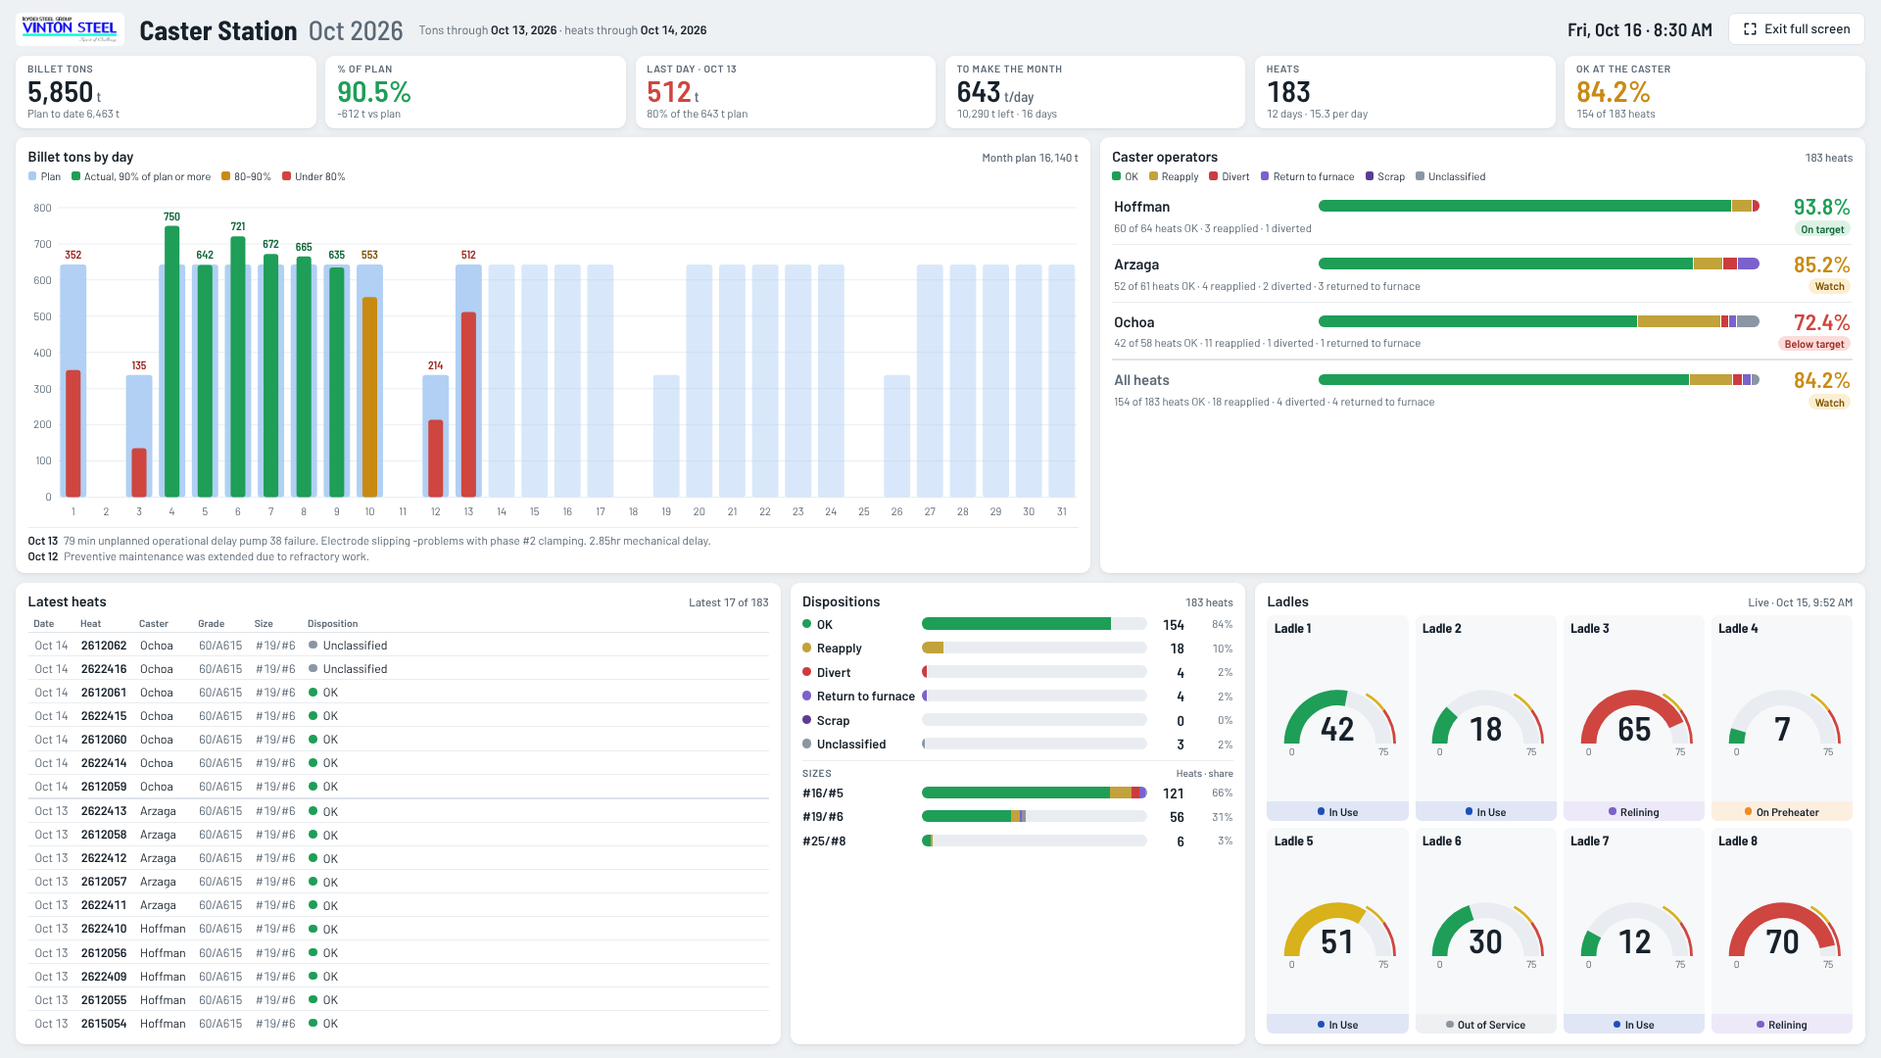
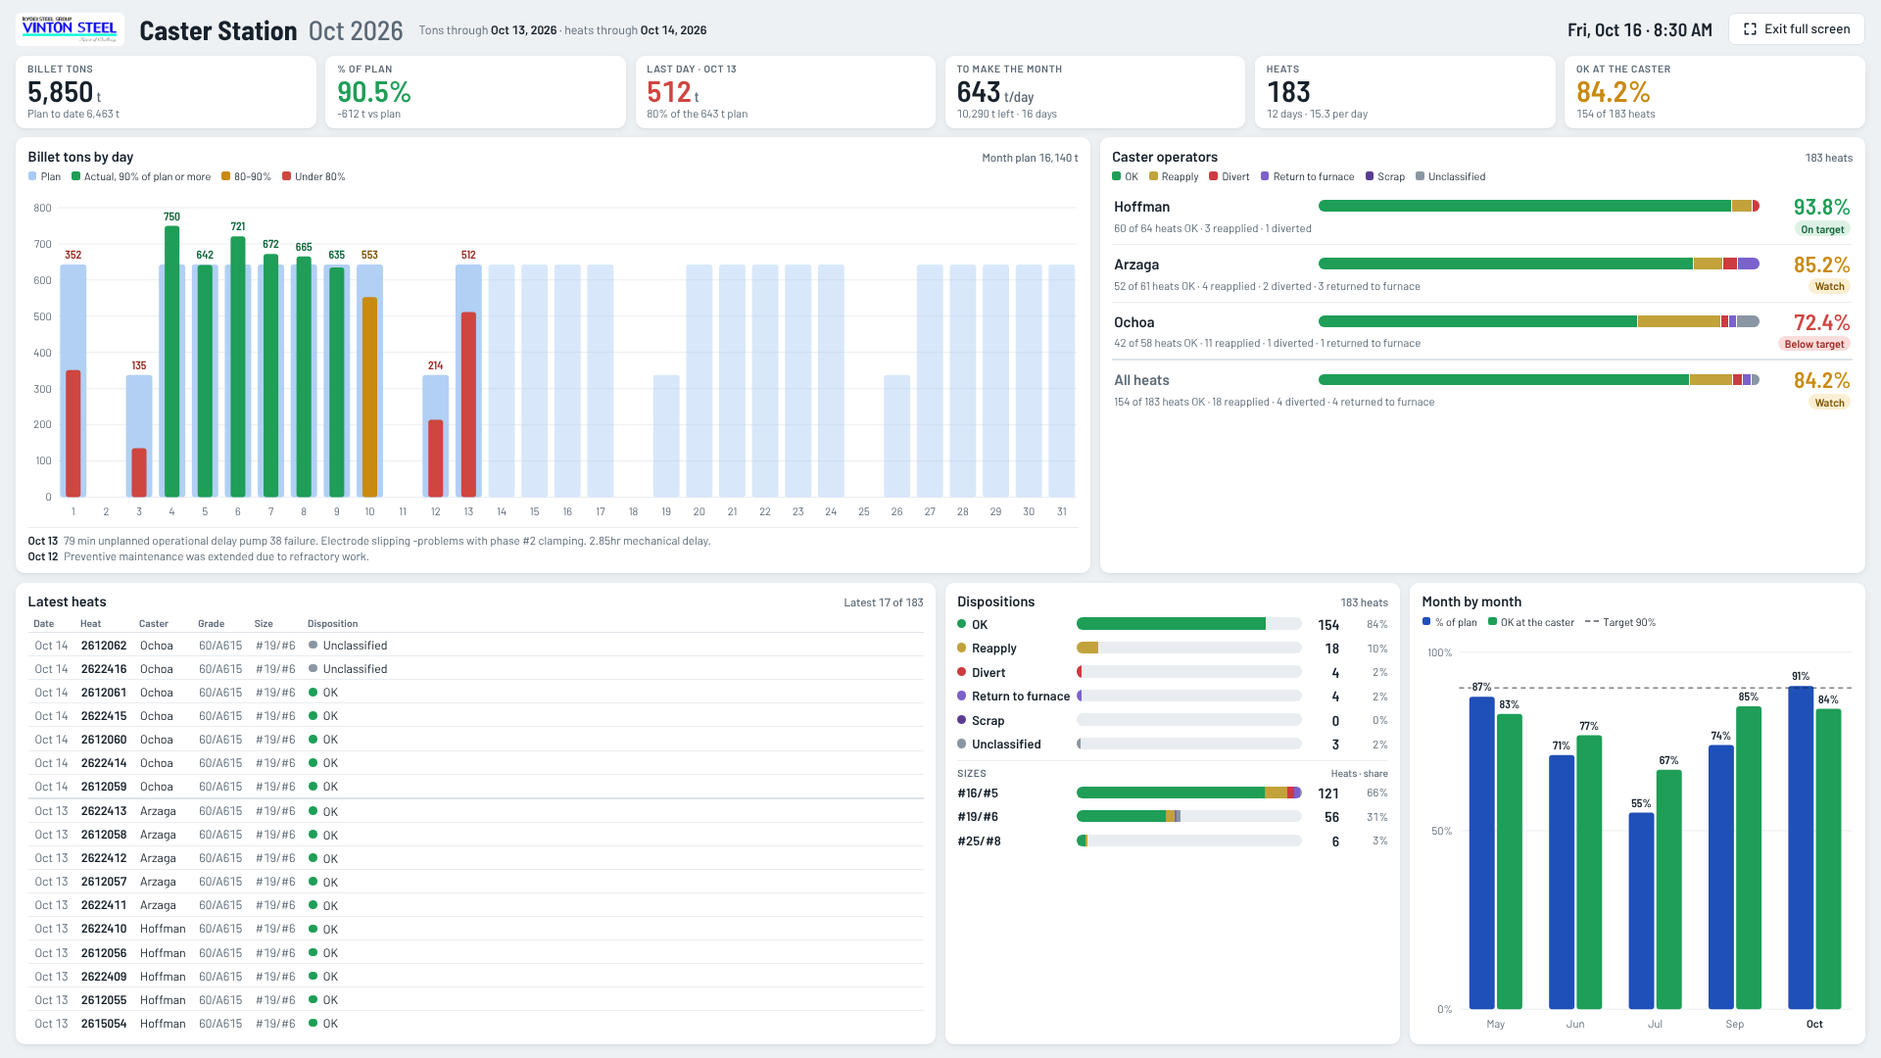
Station TVs: replace the ladle gauges with month-by-month charts
The Furnace Station shows melter OK % by month and the Caster Station % of plan and OK at the caster
by month, against the 90% target. The latest heats table gets the extra width.

Claude-Session: https://claude.ai/code/session_01CDN4J3RVh4maKsFv7NYeHq

diff --git a/index.html b/index.html
@@ -389,7 +389,7 @@ a.btn { text-decoration: none; }
 .st-card h2 { display: flex; align-items: baseline; justify-content: space-between; gap: 1em; font-size: 1.12em; font-weight: 600; margin: 0 0 .4em; min-width: 0; }
 .st-card h2 > span { white-space: nowrap; }
 .st-card h2 small { font-size: .8em; font-weight: 500; color: var(--muted); white-space: nowrap; overflow: hidden; text-overflow: ellipsis; font-variant-numeric: tabular-nums; }
-.st .c7 { grid-column: span 7; } .st .c5 { grid-column: span 5; } .st .c4 { grid-column: span 4; } .st .c3 { grid-column: span 3; }
+.st .c7 { grid-column: span 7; } .st .c6 { grid-column: span 6; } .st .c5 { grid-column: span 5; } .st .c3 { grid-column: span 3; }
 .st-legend { display: flex; flex-wrap: wrap; gap: .15em 1em; font-size: .84em; color: var(--muted); margin: 0 0 .45em; }
 .st-legend:empty { display: none; }
 .st-legend .lg { display: inline-flex; align-items: center; gap: .4em; color: var(--ink); white-space: nowrap; }
@@ -398,7 +398,7 @@ a.btn { text-decoration: none; }
 .st-chart > svg { position: absolute; inset: 0; width: 100%; height: 100%; display: block; overflow: visible; }
 .st-chart text { font-family: var(--font-ui); }
 .st-chart .tl { font-size: .85em; fill: var(--muted); }
-.st-chart .vl { font-family: var(--font-num); font-size: .9em; font-weight: 600; fill: var(--ink); }
+.st-chart .vl { font-family: var(--font-num); font-size: .9em; font-weight: 600; fill: var(--ink); paint-order: stroke; stroke: var(--panel); stroke-width: 3px; stroke-linejoin: round; }
 .st-chart .vl.good { fill: var(--good-ink); } .st-chart .vl.warn { fill: var(--warn-ink); } .st-chart .vl.bad { fill: var(--bad-ink); }
 .st-chart .grid line { stroke: var(--line-2); }
 .st-chart .hover-band { fill: var(--ink); opacity: 0; }
@@ -447,24 +447,15 @@ a.btn { text-decoration: none; }
 .st-notes:empty { display: none; }
 .st-notes li { white-space: nowrap; overflow: hidden; text-overflow: ellipsis; color: var(--muted); }
 .st-notes b { color: var(--ink); font-weight: 600; margin-right: .5em; }
-.st-ladles { flex: 1 1 0; min-height: 0; display: grid; grid-template-columns: repeat(4, minmax(0, 1fr)); grid-template-rows: repeat(2, minmax(0, 1fr)); gap: .5em; }
-.st-ladle { display: flex; flex-direction: column; min-height: 0; min-width: 0; border-radius: .5em; background: var(--panel-2); overflow: hidden; }
-.st-ladle .nm { font-family: var(--font-num); font-weight: 700; font-size: 1.05em; padding: .3em .55em 0; }
-.st-ladle .gw { position: relative; flex: 1 1 0; min-height: 0; margin: 0 .3em; }
-.st-ladle svg.gauge { position: absolute; inset: 0; width: 100%; height: 100%; }
-.st-ladle svg.gauge text { font-family: var(--font-ui); }
-.st-ladle svg.gauge .num { font-family: var(--font-num); font-size: 50px; font-weight: 600; fill: var(--ink); font-variant-numeric: tabular-nums; }
-.st-ladle svg.gauge .num.over { fill: var(--bad-ink); }
-.st-ladle svg.gauge .end { font-size: 15px; fill: var(--muted); }
-.st-ladle .stt { display: flex; align-items: center; justify-content: center; gap: .4em; font-size: .86em; font-weight: 600; padding: .32em .3em; white-space: nowrap; overflow: hidden; }
-.st-ladle .stt i { width: .65em; height: .65em; border-radius: 50%; flex: none; }
+.st-tbl th.num, .st-tbl td.num { text-align: right; }
+.st-legend .sw.tgt { height: 0; width: 1.3em; border-radius: 0; border-top: 2px dashed var(--ink); opacity: .55; }
+.st-chart .target { stroke: var(--ink); stroke-width: 1.5; stroke-dasharray: 5 4; opacity: .55; }
+.st-chart .tl.cur { fill: var(--ink); font-weight: 600; }
 @media (max-width: 1100px) {
   html:not(.vk-tv) .st { grid-template-columns: minmax(0, 1fr); grid-template-rows: none; }
   html:not(.vk-tv) .st > .st-card { grid-column: 1 / -1; }
   html:not(.vk-tv) .st > .st-card.fx { height: 340px; }
   html:not(.vk-tv) .st-card:not(.fx) > * { flex: none !important; }
-  html:not(.vk-tv) .st-ladles { grid-template-rows: none; }
-  html:not(.vk-tv) .st-ladle .gw { flex: none; aspect-ratio: 200 / 118; }
   html:not(.vk-tv) .st-kpis { grid-template-columns: repeat(3, minmax(0, 1fr)); }
 }
 @media (max-width: 620px) {
@@ -939,7 +930,7 @@ html.vk-tv.vk-idle .st-fs { opacity: 0; }
         <div class="st-legend" data-st="ops-legend"></div>
         <ol class="st-rank" data-st="ops"></ol>
       </div>
-      <div class="st-card c5 fx">
+      <div class="st-card c6 fx">
         <h2><span>Latest heats</span><small data-st="heats-note"></small></h2>
         <div class="st-tbl-wrap">
           <table class="st-tbl" data-st="heats">
@@ -955,9 +946,10 @@ html.vk-tv.vk-idle .st-fs { opacity: 0; }
         <h3 class="st-sub"><span>Grades</span><small>Heats · OK</small></h3>
         <div class="st-bars wide fill" data-st="els2"></div>
       </div>
-      <div class="st-card c4">
-        <h2><span>Ladles</span><small data-st="ladles-note"></small></h2>
-        <div class="st-ladles" data-st="ladles"></div>
+      <div class="st-card c3 fx">
+        <h2><span>Melter OK % by month</span></h2>
+        <div class="st-legend" data-st="months-legend"></div>
+        <div class="st-chart" data-st="months"></div>
       </div>
     </section>
 
@@ -984,7 +976,7 @@ html.vk-tv.vk-idle .st-fs { opacity: 0; }
         <div class="st-legend" data-st="ops-legend"></div>
         <ol class="st-rank" data-st="ops"></ol>
       </div>
-      <div class="st-card c5 fx">
+      <div class="st-card c6 fx">
         <h2><span>Latest heats</span><small data-st="heats-note"></small></h2>
         <div class="st-tbl-wrap">
           <table class="st-tbl" data-st="heats">
@@ -999,9 +991,10 @@ html.vk-tv.vk-idle .st-fs { opacity: 0; }
         <h3 class="st-sub"><span>Sizes</span><small>Heats · share</small></h3>
         <div class="st-bars wide fill" data-st="els2"></div>
       </div>
-      <div class="st-card c4">
-        <h2><span>Ladles</span><small data-st="ladles-note"></small></h2>
-        <div class="st-ladles" data-st="ladles"></div>
+      <div class="st-card c3 fx">
+        <h2><span>Month by month</span></h2>
+        <div class="st-legend" data-st="months-legend"></div>
+        <div class="st-chart" data-st="months"></div>
       </div>
     </section>
 
@@ -2498,6 +2491,7 @@ html.vk-tv.vk-idle .st-fs { opacity: 0; }
   function stLegend(box, items) {
     box.replaceChildren(...items.map(([label, color, soft]) => { const s = mk('span', 'lg'); const w = mk('i', 'sw'); w.style.background = color; if (soft) w.style.opacity = '.5'; s.append(w, label); return s; }));
   }
+  function stTarget(box) { const s = mk('span', 'lg'); const w = mk('i', 'sw tgt'); s.append(w, 'Target 90%'); box.appendChild(s); }
   function stRank(ol, rows, total) {
     ol.replaceChildren();
     if (!rows.length) { ol.appendChild(mk('li', 'chart-empty', 'No heats for this month')); return; }
@@ -2555,29 +2549,44 @@ html.vk-tv.vk-idle .st-fs { opacity: 0; }
     const lim = box.getBoundingClientRect().bottom;
     if (box.classList.contains('fill') && box.clientHeight > 0) for (const k of [...box.children].reverse()) { if (k.getBoundingClientRect().bottom <= lim + 1) break; k.remove(); }
   }
-  const gradeShort = (g) => String(g || '—').replace(/\s*\(A706\/A615\)\s*DUAL/i, ' DUAL');
-  function stLadles(sec) {
-    const S = ladleSettings();
-    const items = ladleItems();
-    const grid = stq(sec, 'ladles');
-    grid.replaceChildren();
-    for (const it of items) {
-      const life = Math.max(0, Math.round(+it.Life || 0));
-      const c = mk('div', 'st-ladle');
-      const gw = mk('div', 'gw');
-      const svg = document.createElementNS('http://www.w3.org/2000/svg', 'svg'); svg.setAttribute('class', 'gauge'); svg.setAttribute('role', 'img');
-      gw.appendChild(svg);
-      const stt = mk('div', 'stt');
-      c.append(mk('div', 'nm', 'Ladle ' + it.Ladle), gw, stt);
-      grid.appendChild(c);
-      drawGauge(svg, life, S);
-      paintStatus(stt, it.Status);
-      c.title = `Ladle ${it.Ladle}: life ${life} of ${S.max}, ${it.Status || 'no status'}`;
-    }
-    if (!items.length) grid.appendChild(mk('div', 'chart-empty', 'No ladle data yet'));
-    const last = lad.live ? lad.fileAt || d3.max(items, (r) => r.UpdatedAt || '') : d3.max(items, (r) => r.UpdatedAt || '') || ladleSnap().asOf;
-    stq(sec, 'ladles-note').textContent = last ? (lad.live ? 'Live · ' : 'As of ') + whenShort(last) : '';
+  // percent by month (oldest to newest) against the 90% target; one or two bars a month
+  function stMonths(box, rows, cur, series) {
+    clear(box);
+    if (!rows.length) return emptyNote(box, 'No months yet');
+    const W = box.clientWidth, H = box.clientHeight;
+    if (W < 40 || H < 60) return;
+    const em = emOf(box);
+    const svg = d3.select(box).append('svg').attr('viewBox', `0 0 ${W} ${H}`);
+    const tip = makeTip(box);
+    const top = Math.max(1, d3.max(rows, (r) => d3.max(series, (s) => r[s.key] || 0)) || 1);
+    const y = d3.scaleLinear([0, top], [H - 1.9 * em, 1.6 * em]);
+    const yt = [0, 0.5, 1].filter((t) => t <= top);
+    const fmtT = loc.format('.0%');
+    const m = { l: (d3.max(yt, (t) => textWidth(svg, fmtT(t), 'tl')) || 10) + 0.9 * em, r: 2 };
+    const x = d3.scaleBand(rows.map((r) => r.Month), [m.l, W - m.r]).paddingInner(0.28).paddingOuter(0.1);
+    const x1 = d3.scaleBand(series.map((s) => s.key), [0, x.bandwidth()]).padding(series.length > 1 ? 0.08 : 0);
+    svg.append('g').attr('class', 'grid').selectAll('line').data(yt).join('line').attr('x1', m.l).attr('x2', W - m.r).attr('y1', (d) => y(d)).attr('y2', (d) => y(d));
+    svg.append('g').selectAll('text').data(yt).join('text').attr('class', 'tl').attr('x', m.l - 0.5 * em).attr('y', (d) => y(d)).attr('dy', '0.35em').attr('text-anchor', 'end').text(fmtT);
+    const bars = rows.flatMap((r) => series.filter((s) => r[s.key] != null).map((s) => ({ r, s, v: r[s.key] })));
+    const bw = x1.bandwidth();
+    svg.append('g').selectAll('rect').data(bars).join('rect')
+      .attr('x', (b) => x(b.r.Month) + x1(b.s.key)).attr('width', bw).attr('y', (b) => y(b.v)).attr('height', (b) => y(0) - y(b.v))
+      .attr('rx', Math.min(3, bw / 4)).style('fill', (b) => b.s.color(b.v));
+    svg.append('line').attr('class', 'target').attr('x1', m.l).attr('x2', W - m.r).attr('y1', y(0.9)).attr('y2', y(0.9));
+    const wl = d3.max(bars, (b) => textWidth(svg, fP0(b.v), 'vl')) || 0;
+    if (wl <= bw + x1.step() * x1.paddingInner() + 2) svg.append('g').selectAll('text').data(bars).join('text').attr('class', (b) => 'vl ' + (series.length > 1 ? '' : status(b.v)))
+      .attr('x', (b) => x(b.r.Month) + x1(b.s.key) + bw / 2).attr('y', (b) => y(b.v) - 0.45 * em).attr('text-anchor', 'middle').text((b) => fP0(b.v));
+    const lab = (k) => MONTHS[+k.slice(5, 7) - 1].slice(0, 3);
+    svg.append('g').selectAll('text').data(rows).join('text').attr('class', (r) => 'tl' + (r.Month === cur ? ' cur' : ''))
+      .attr('x', (r) => x(r.Month) + x.bandwidth() / 2).attr('y', H - 0.45 * em).attr('text-anchor', 'middle').text((r) => lab(r.Month));
+    const hover = svg.append('g').selectAll('rect').data(rows).join('rect').attr('class', 'hover-band')
+      .attr('x', (r) => x(r.Month) - (x.step() - x.bandwidth()) / 2).attr('width', x.step()).attr('y', 0).attr('height', H - 1.9 * em);
+    hover.on('mousemove', (ev, r) => {
+      hover.classed('on', (e) => e === r);
+      tip.show(ev, monthLong(r.Month), [...series.map((s) => [r[s.key] == null ? null : s.color(r[s.key]), s.label, r[s.key] == null ? '—' : fP1(r[s.key])]), ...(r.extra || [])]);
+    }).on('mouseleave', () => { hover.classed('on', false); tip.hide(); });
   }
+  const gradeShort = (g) => String(g || '—').replace(/\s*\(A706\/A615\)\s*DUAL/i, ' DUAL');
   const colLabel = (key, single, n) => (single ? d3.utcFormat(n <= 16 ? '%b %-d' : '%-d')(utc(key)) : MONTHS[+key.slice(5, 7) - 1].slice(0, 3));
   function stAxis(svg, y, yt, m, W, em) {
     svg.append('g').attr('class', 'grid').selectAll('line').data(yt).join('line').attr('x1', m.l).attr('x2', W - m.r).attr('y1', (d) => y(d)).attr('y2', (d) => y(d));
@@ -2700,6 +2709,15 @@ html.vk-tv.vk-idle .st-fs { opacity: 0; }
       { cls: 'cut miss', render: (td, h) => { const f = oset.byHeat.get(heatKey(h)); if (f) { td.textContent = f.map(shortMiss).join(' · '); td.title = td.textContent; } } },
     ]);
     stq(sec, 'heats-note').textContent = all.length ? `Latest ${fInt(shown)} of ${fInt(all.length)}` : '';
+    // every month side by side, so this month can be read against the ones before it
+    const mRows = d3.groups(DATA.heats, (h) => h.Month).sort((a, b) => cmp(a[0], b[0])).map(([k, hs]) => {
+      const r = { Month: k, in: 0, out: 0 };
+      for (const h of hs) { const f = furnaceState(h, oset, ST_SPEC); if (f === 'in') r.in += 1; else if (f === 'miss' || f === 'scrap') r.out += 1; }
+      r.pct = r.in + r.out ? r.in / (r.in + r.out) : null;
+      r.extra = [[null, 'Heats', fInt(hs.length)], [null, 'OK of heats checked', `${fInt(r.in)} of ${fInt(r.in + r.out)}`]];
+      return r;
+    });
+    stq(sec, 'months-legend').replaceChildren();
     const rowsM = oset.rows.filter((r) => inMonth(r, m));
     const hk = (r) => r.Month + '|' + r.HeatNo;
     const els = d3.rollups(rowsM, (v) => ({ up: new Set(v.filter((r) => r.Direction === 'Above Maximum').map(hk)).size, down: new Set(v.filter((r) => r.Direction !== 'Above Maximum').map(hk)).size, n: new Set(v.map(hk)).size }), (r) => r.Element)
@@ -2713,8 +2731,9 @@ html.vk-tv.vk-idle .st-fs { opacity: 0; }
     stBars(stq(sec, 'els2'), grades, gMax, 'No heats for this month');
     const fAll = flowStat('All heats', all, oset, ST_SPEC);
     stRank(stq(sec, 'ops'), opRanks(all, 'Crew', oset, ST_SPEC), { s: fAll, ...rankInfo(fAll, 'F', true) });
-    stLadles(sec);
     const groups = d3.groups(all, (h) => (single ? h.Date : h.Month)).sort((a, b) => cmp(a[0], b[0]));
+    stTarget(stq(sec, 'months-legend'));
+    stMonths(stq(sec, 'months'), mRows, m, [{ key: 'pct', label: 'Melter OK', color: (v) => `var(--${status(v)})` }]);
     stFurnaceDays(stq(sec, 'days'), groups.map(([key, hs]) => ({ key, label: colLabel(key, single, groups.length), long: single ? d3.utcFormat('%a, %b %-d')(utc(key)) : monthLong(key), ...cnt(hs) })));
   }
 
@@ -2765,6 +2784,12 @@ html.vk-tv.vk-idle .st-fs { opacity: 0; }
       { cls: 'cut', render: (td, h) => { catCell(td, casterCat(h)); const d = dispDetail(h); if (d) td.appendChild(mk('span', 'dd', d)); td.title = String(h.Disposition || ''); } },
     ]);
     stq(sec, 'heats-note').textContent = all.length ? `Latest ${fInt(shown)} of ${fInt(all.length)}` : '';
+    const okBy = d3.rollup(DATA.heats, (v) => v.filter((h) => h.DispositionCategory === 'OK').length / v.length, (h) => h.Month);
+    const mRows = BILLET_SUM.filter((r) => r.Month !== 'All').slice().sort((a, b) => cmp(a.Month, b.Month))
+      .map((r) => ({ Month: r.Month, plan: r.HasBillet ? r.PctOfPlan : null, ok: okBy.has(r.Month) ? okBy.get(r.Month) : null,
+        extra: r.HasBillet ? [[null, 'Billet tons', f0(r.ActualTons)], [null, 'Planned to date', f0(r.PlannedToDate)]] : [] }));
+    stLegend(stq(sec, 'months-legend'), [['% of plan', 'var(--actual)'], ['OK at the caster', 'var(--ok)']]);
+    stTarget(stq(sec, 'months-legend'));
     stBars(stq(sec, 'els'), CASTER_CATS.filter((k) => cc[k] || k !== 'Unclassified').map((k) => ({ label: CASTER_LABEL[k], dot: C_COLOR[k], n: cc[k], p: all.length ? cc[k] / all.length : null, parts: [{ n: cc[k], color: C_COLOR[k], label: CASTER_LABEL[k] }] })),
       all.length, 'No heats for this month');
     stq(sec, 'els-note').textContent = all.length ? `${fInt(all.length)} heats` : '';
@@ -2775,12 +2800,12 @@ html.vk-tv.vk-idle .st-fs { opacity: 0; }
     stBars(stq(sec, 'els2'), sizes, d3.max(sizes, (r) => r.n) || 1, 'No heats for this month');
     const cAll = flowStat('All heats', all, oset, ST_SPEC);
     stRank(stq(sec, 'ops'), opRanks(all, 'CasterOp', oset, ST_SPEC), { s: cAll, ...rankInfo(cAll, 'C', true) });
-    stLadles(sec);
     const pts = single
       ? bdays.map((d) => ({ key: d.Date, P: d.PlannedDaily || 0, A: d.ActualDaily, note: String(d.Comments || '').trim(), long: d3.utcFormat('%a, %b %-d')(utc(d.Date)) }))
       : BILLET_SUM.filter((r) => r.Month !== 'All' && r.HasBillet).map((r) => ({ key: r.Month, P: r.PlannedToDate, A: r.ActualTons, note: '', long: monthLong(r.Month) }));
     pts.forEach((d) => { d.label = colLabel(d.key, single, pts.length); });
     stBilletDays(stq(sec, 'days'), pts);
+    stMonths(stq(sec, 'months'), mRows, m, [{ key: 'plan', label: '% of plan', color: () => 'var(--actual)' }, { key: 'ok', label: 'OK at the caster', color: () => 'var(--ok)' }]);
   }
 
   // ---------- Data & definitions ----------
@@ -2859,7 +2884,7 @@ html.vk-tv.vk-idle .st-fs { opacity: 0; }
   const whenShort = (iso) => (!iso ? '' : iso.length <= 10 ? d3.utcFormat('%b %-d')(utc(iso)) : d3.timeFormat('%b %-d, %-I:%M %p')(new Date(iso)));
   const lifeColor = (life, S) => (life >= S.alarm ? 'var(--bad)' : life >= S.warn ? 'var(--gauge-warn)' : 'var(--good)');
   const ladleMsg = (t, err) => { const m = $('#ladle-msg'); m.textContent = t || ''; m.classList.toggle('err', !!err); };
-  const redrawLadles = () => { if (state.page === 'ladles') drawLadles(); else if (STATIONS.has(state.page)) PAGES[state.page](); };
+  const redrawLadles = () => { if (state.page === 'ladles') drawLadles(); };
 
   // ----- reading -----
   function applyLadleFile(obj) {
@@ -2889,7 +2914,7 @@ html.vk-tv.vk-idle .st-fs { opacity: 0; }
   function startLadleFile() {
     loadLadleFile().then((ok) => {
       if (!ok || ladlePoll) return;
-      ladlePoll = setInterval(() => { if (!document.hidden && (state.page === 'ladles' || STATIONS.has(state.page)) && !lad.busy && !lad.drafts.size) loadLadleFile(); }, 60000);
+      ladlePoll = setInterval(() => { if (!document.hidden && state.page === 'ladles' && !lad.busy && !lad.drafts.size) loadLadleFile(); }, 60000);
     });
   }
   function connectLadles() { /* the ladles live in the GitHub file only; the Claude database does not hold them */ }
@@ -3476,7 +3501,7 @@ html.vk-tv.vk-idle .st-fs { opacity: 0; }
   setInterval(tickClock, 15000);
   $$('.st-logo').forEach((img) => { img.src = $('.vk-logo img').src; });
   /* A station TV stays open for days: every 10 minutes it checks the published site for new data and redraws in place
-     (staying full screen). The ladles check every minute. */
+     (staying full screen). */
   const onGithubSite = () => /^https?:$/.test(location.protocol) && location.hostname.endsWith('github.io');
   async function refreshPublished() {
     if (!onGithubSite() || preview || document.hidden) return;

diff --git a/README.md b/README.md
@@ -21,8 +21,8 @@ Chemistry dispositions, out-of-spec results, operator spec performance and bille
 | **Operators** | Each melter's OK % under the furnace melter criteria. Each station's operators are judged on their own work: furnace operators by the chemistry at the furnace, caster operators by how their heats were dispositioned at the caster. Also how each pairing performed, and each heat's path from furnace to caster (for example, in spec at the furnace but returned to the furnace at the caster). |
 | **Billet Production** | Daily billet tons against plan, the variance to plan and the estimated production loss. |
 | **Ladle's Life** | The lining life of the 8 ladles against their safety life, and each ladle's status: In Use, On Preheater, Relining or Out of Service. Anyone holding an edit key updates the numbers and statuses right on the page, and every change is logged. |
-| **Furnace Station** | A one-screen view for the TV at the furnace: heats, melter OK %, out of spec and out-of-spec scrap, melter OK % by day, the furnace operators, the latest heats with what was outside the criteria, the elements and grades, and the ladles. |
-| **Caster Station** | A one-screen view for the TV at the caster: billet tons against plan, the tons a day still needed to make the month, the last day, OK at the caster, billet tons by day with the latest shift comments, the caster operators, the latest heats and their dispositions, the sizes cast, and the ladles. |
+| **Furnace Station** | A one-screen view for the TV at the furnace: heats, melter OK %, out of spec and out-of-spec scrap, melter OK % by day, the furnace operators, the latest heats with what was outside the criteria, the elements and grades, and melter OK % month by month. |
+| **Caster Station** | A one-screen view for the TV at the caster: billet tons against plan, the tons a day still needed to make the month, the last day, OK at the caster, billet tons by day with the latest shift comments, the caster operators, the latest heats and their dispositions, the sizes cast, and % of plan and OK at the caster month by month. |
 | **Data & definitions** | Which Excel file each month came from, the days it covers, and how every number is worked out. |
 
 Each page has a month picker and its own filters (crew, grade, disposition, spec source), and the detail tables can be searched and sorted.
@@ -55,7 +55,7 @@ Each page has a month picker and its own filters (crew, grade, disposition, spec
 2. Click **Full screen**. The page fills the screen and sizes itself to it, so everything fits with no scrolling on any TV, from 720p to 4K.
 3. To leave, press **Esc** or move the mouse and click **Exit full screen**.
 
-While it is full screen, the page keeps the screen from going to sleep where the browser allows it, and hides the mouse pointer after a few seconds. It checks for newly published data every 10 minutes and for ladle changes every minute, and updates itself without leaving full screen.
+While it is full screen, the page keeps the screen from going to sleep where the browser allows it, and hides the mouse pointer after a few seconds. It checks for newly published data every 10 minutes and updates itself without leaving full screen.
 
 For a TV computer that opens the browser on its own, use these links. They open the station already filling the window; start the browser in full-screen or kiosk mode:
 
